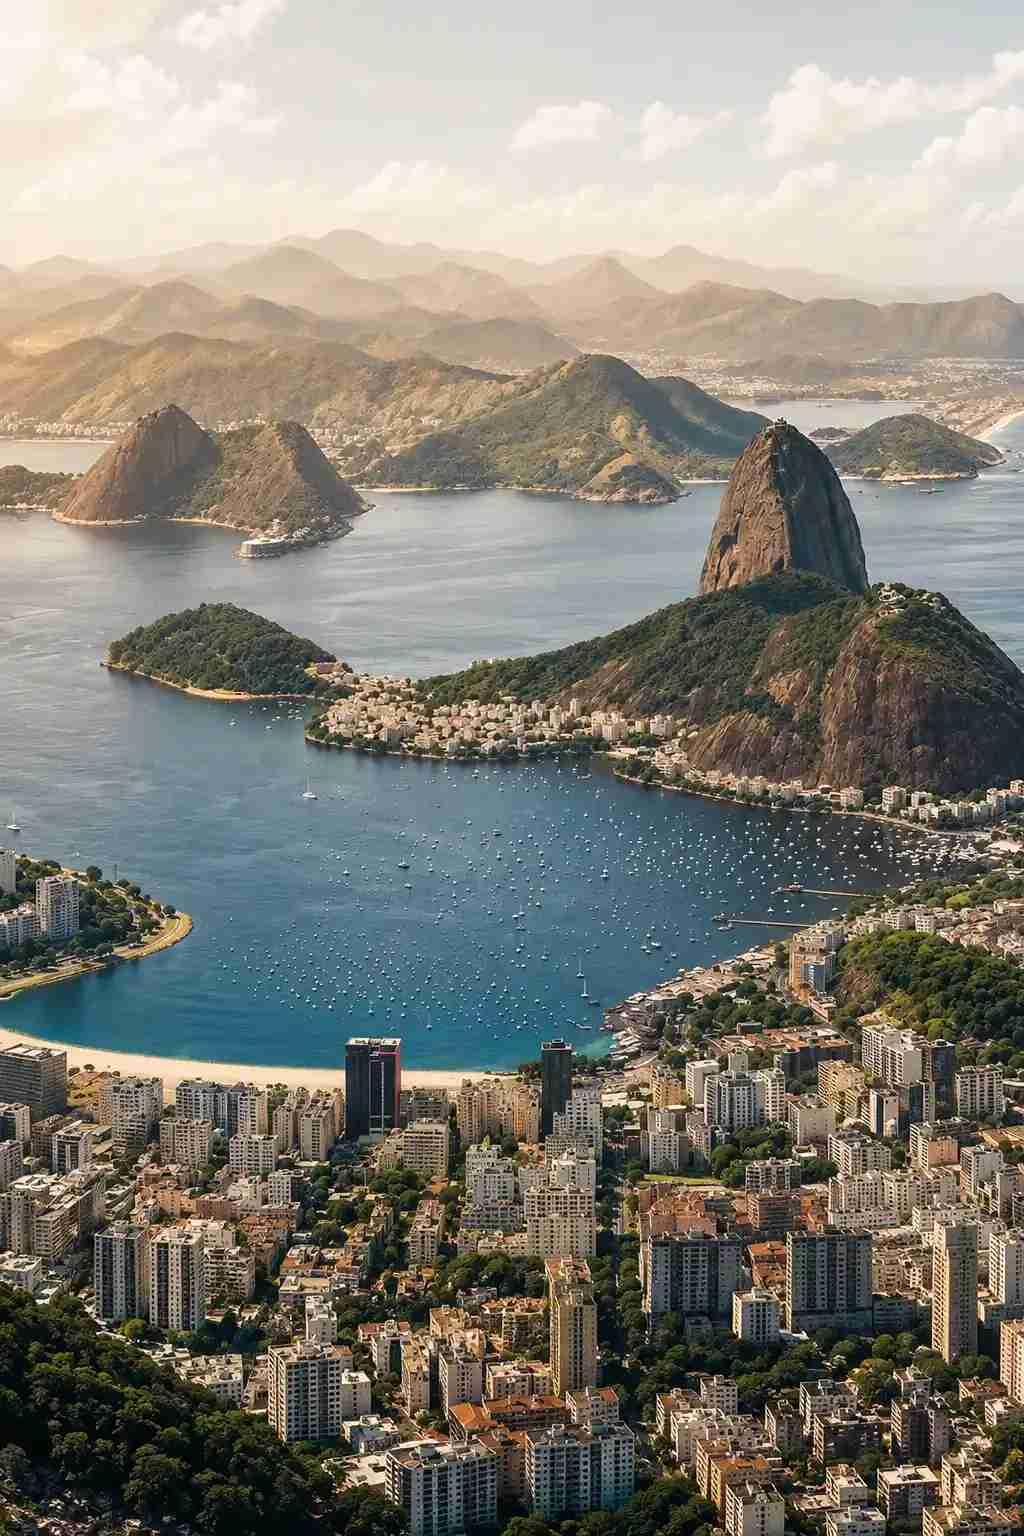
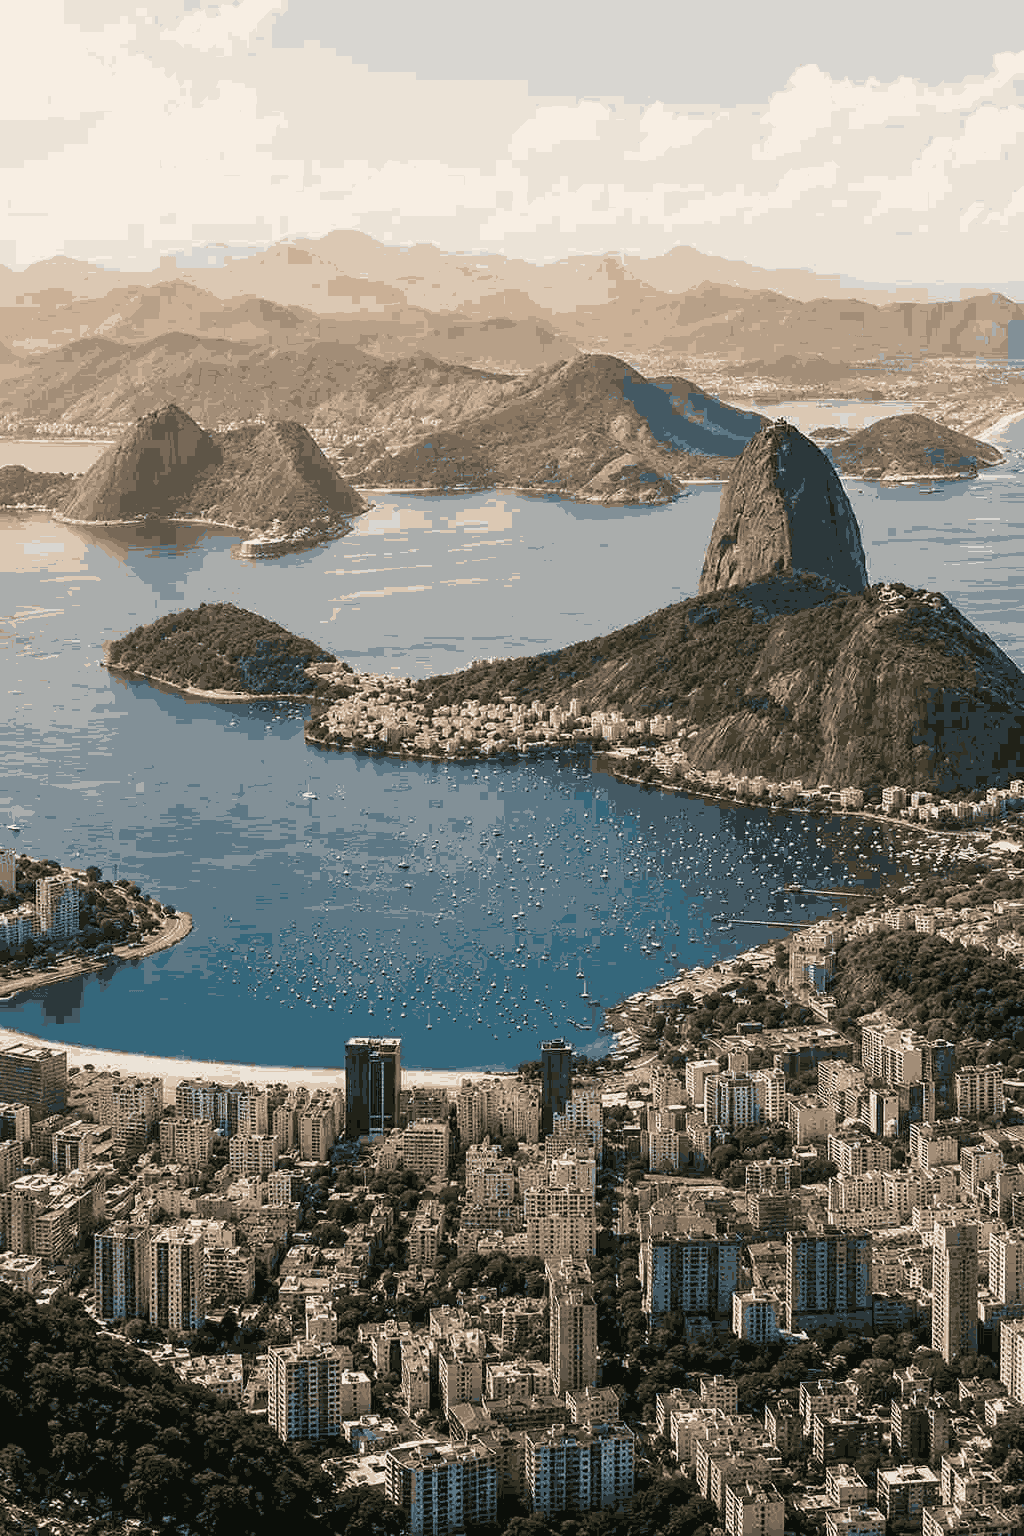
Semana03

diff --git a/local.html b/local.html
@@ -33,7 +33,7 @@
 
                 <source media="(min-width: 800px)" srcset="imagens/brasil-large.webp">
 
-                <img src="imagens/brasil-small.png" alt="Vista panorâmica do Rio de Janeiro com o Pão de Açúcar">
+                <img src="imagens/brasil-small.png" alt="Vista Panorâmica do Rio de Janeiro com o Pão de Açúcar">
 
             </picture>
 